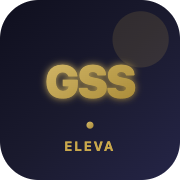
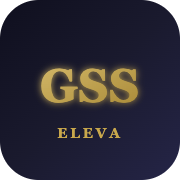
fix(eleva): ícone GSS em serifa (como a marca), sem círculos
Tirei o círculo decorativo (canto) e o pontinho; GSS e ELEVA agora em Georgia serif
(bate com o wordmark do app). og:image -> icon-eleva2.png (fura cache do WhatsApp).

Changed region(s): [[0.1944, 0.0556, 0.9444, 0.6111], [0.3056, 0.6667, 0.6667, 0.8611]]

diff --git a/index.html b/index.html
@@ -16,11 +16,11 @@
     <meta property="og:title" content="Eleva" />
     <meta property="og:description" content="Cada produto vira uma pílula de 30s: quem vende aprende o benefício, quebra a objeção da cliente e manda a resposta pronta no WhatsApp (com o vídeo, quando o produto tem)." />
     <meta property="og:url" content="https://eleva-five.vercel.app/eleva" />
-    <meta property="og:image" content="https://eleva-five.vercel.app/icon-512-eleva.png" />
+    <meta property="og:image" content="https://eleva-five.vercel.app/icon-eleva2.png" />
     <meta name="twitter:card" content="summary" />
     <meta name="twitter:title" content="Eleva" />
     <meta name="twitter:description" content="Produto que vende na ponta — pílulas de 30s pra sua força de venda." />
-    <meta name="twitter:image" content="https://eleva-five.vercel.app/icon-512-eleva.png" />
+    <meta name="twitter:image" content="https://eleva-five.vercel.app/icon-eleva2.png" />
     <link rel="manifest" href="/manifest.json" />
     <link rel="preconnect" href="https://fonts.googleapis.com" />
     <link rel="preconnect" href="https://fonts.gstatic.com" crossorigin />

diff --git a/public/sw.js b/public/sw.js
@@ -1,5 +1,5 @@
 // Service Worker — network first, sem cache de JS/CSS (evita versões travadas)
-const CACHE_NAME = 'gss-academy-v48';
+const CACHE_NAME = 'gss-academy-v49';
 const STATIC_CACHE = ['/', '/manifest.json'];
 
 self.addEventListener('install', (event) => {
